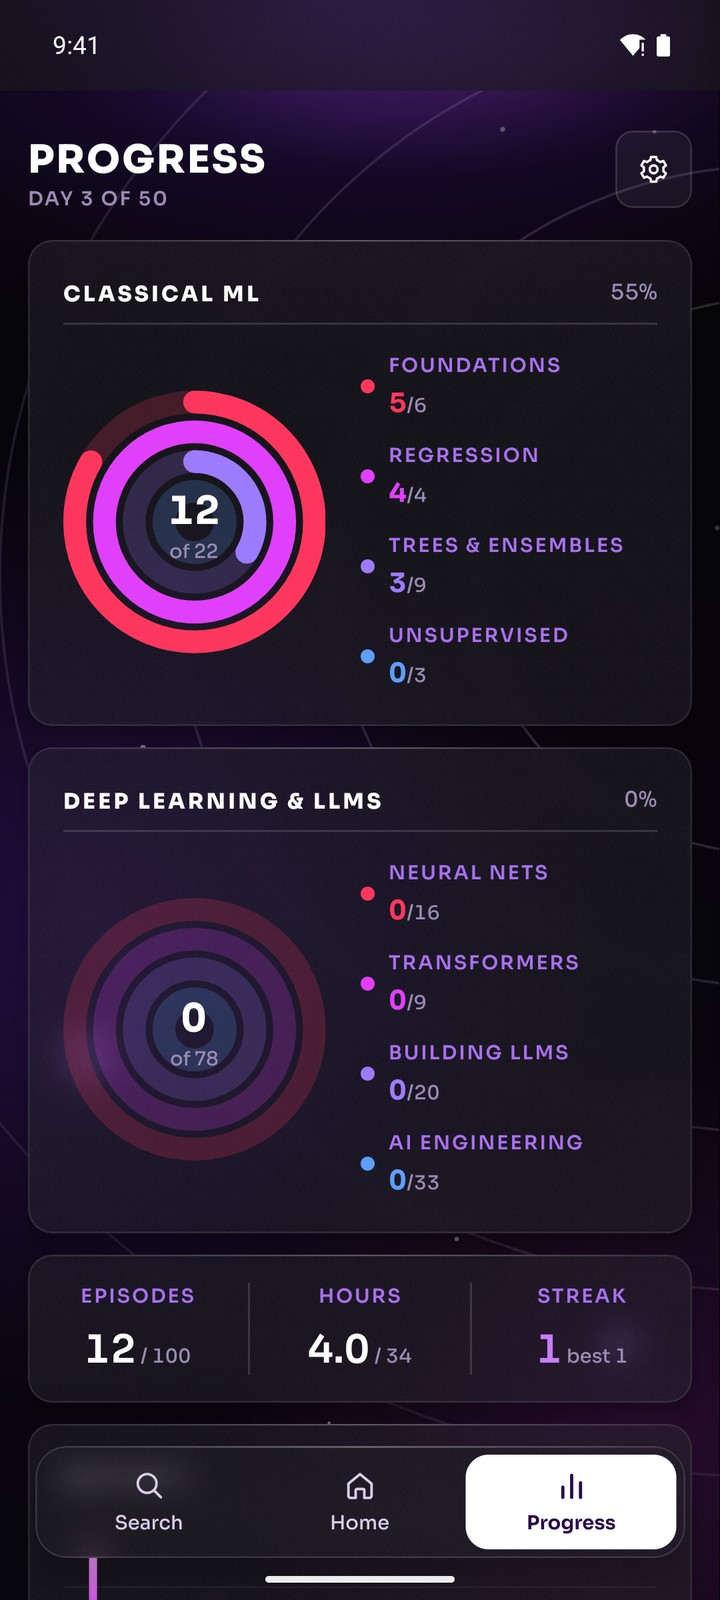
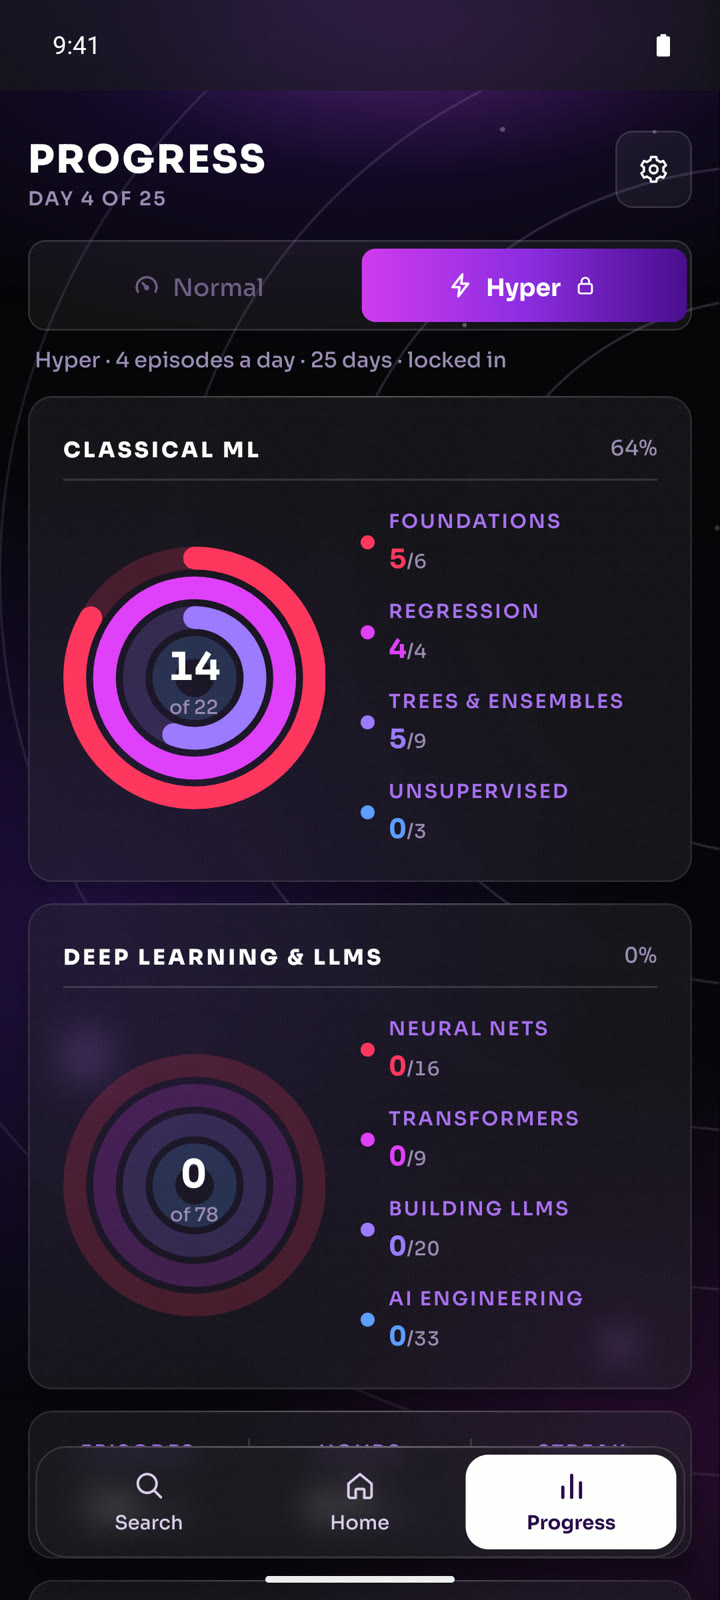
README: Hyper mode in the tagline and tables, hold-to-finish wording, fresh Progress screenshot

diff --git a/README.md b/README.md
@@ -4,7 +4,7 @@
 
 <br />
 
-**A beginner's introduction to machine learning in 50 days, two short episodes a day.**
+**A beginner's introduction to machine learning in 50 days, two short episodes a day. In a hurry? Hyper mode does it in 25.**
 
 <br />
 
@@ -24,7 +24,7 @@
 <img src="docs/screenshots/home.jpg" width="23%" alt="Home: today's two episodes" />
 <img src="docs/screenshots/episode.jpg" width="23%" alt="Episode sheet: summary and videos" />
 <img src="docs/screenshots/search.jpg" width="23%" alt="Search across all 100 episodes" />
-<img src="docs/screenshots/progress.jpg" width="23%" alt="Progress and streak" />
+<img src="docs/screenshots/progress.jpg" width="23%" alt="Progress: Normal / Hyper slider, rings and streak" />
 
 </div>
 
@@ -40,8 +40,8 @@ Treat it as a first look. By the end you should know the main ideas and how they
 
 | Screen | What it does |
 |---|---|
-| Today | Two episodes a day, shown as cards. If you only finish one, the other moves to tomorrow. The arrows page through the rest of the plan when you want to go ahead. |
-| Episodes | Each card lists its videos with exact time ranges, and **Start** opens YouTube at the right second. Tap a card for a short summary, or hold it to mark it done. |
+| Today | Two episodes a day (four in Hyper), shown as cards. If you only finish some, the rest move to tomorrow. The arrows page through the rest of the plan when you want to go ahead. |
+| Episodes | Each card lists its videos with exact time ranges, and **Start** opens YouTube at the right second. Tap a card for a short summary, or hold it to mark it done: the check ring charges, then fills. |
 | Search | Find any of the 100 episodes by name, topic, channel or summary, and filter by phase or status. |
 | Progress | How far you are through classic ML and through deep learning and LLMs, plus hours watched and your streak. The slider at the top switches from Normal (two a day, 50 days) to Hyper (four a day, 25 days). Hyper is one-way: once on, it stays on. |
 
